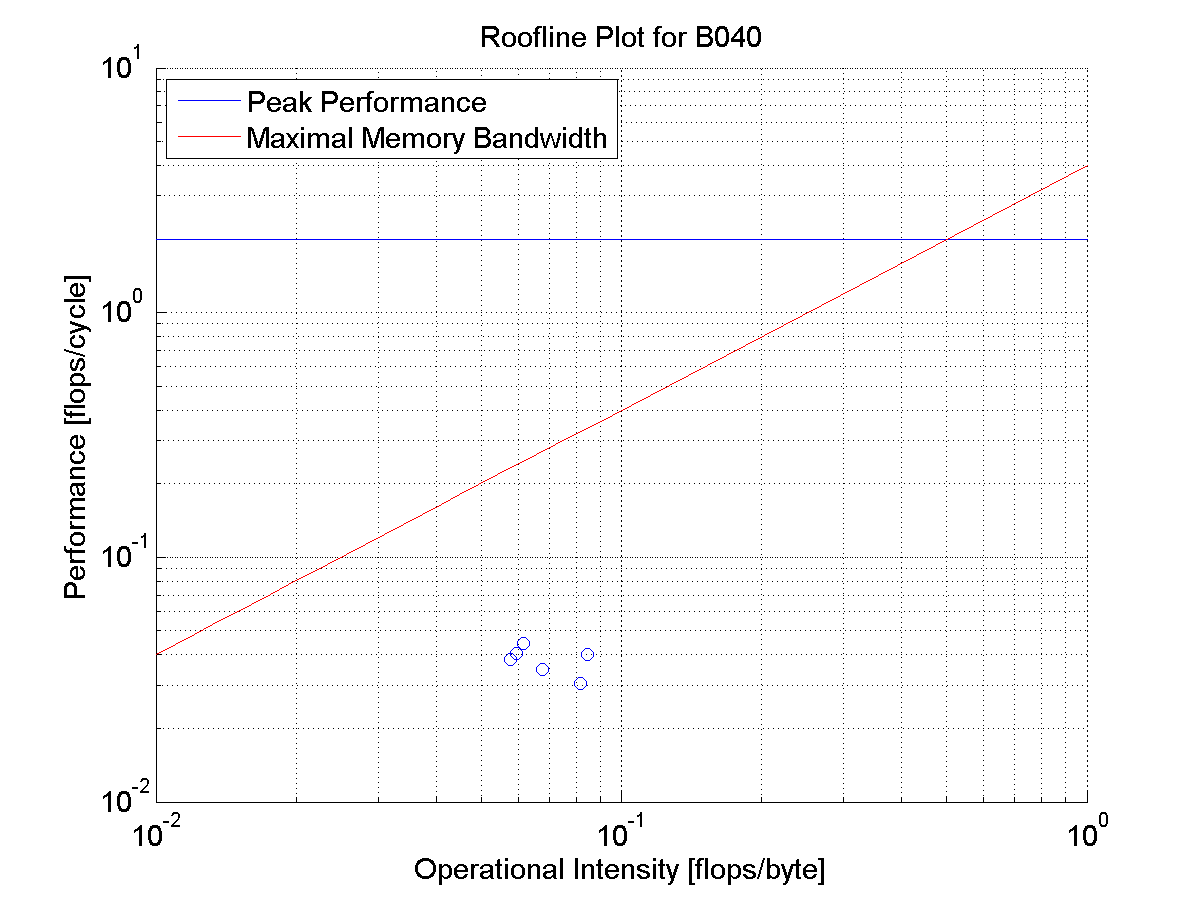
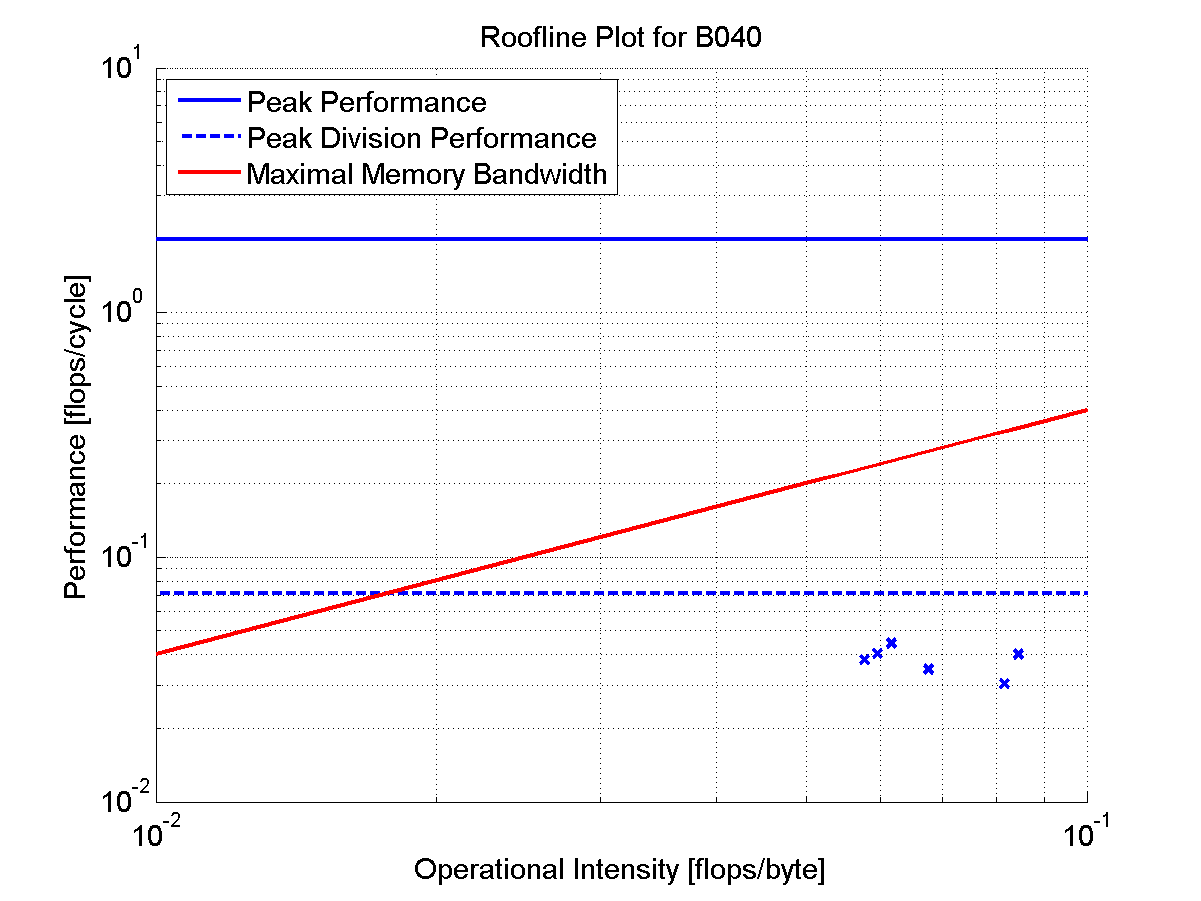
Added divider dependency.

diff --git a/analysis/performance_b040.m b/analysis/performance_b040.m
@@ -37,7 +37,6 @@ intensity = flops_cycle/bandwidth_cycle;
 roofline_points = [roofline_points; intensity, flops_cycle];
 
 data_points_double = [data_points_double; 1638, flops_cycle];
-
 %% Performance Analysis [dataset user 405] 734 movies, user 405, single precision
 num_cycles = 2538003807; % CPU_CLK_UNHALTED.REF_TSC
 num_messages = 54330;
@@ -54,7 +53,6 @@ intensity = flops_cycle/bandwidth_cycle;
 roofline_points = [roofline_points; intensity, flops_cycle];
 
 data_points_single = [data_points_single; 734, flops_cycle];
-
 %% Performance Analysis [dataset user 405] 734 movies, user 405, double precision
 num_cycles = 16308024462; % CPU_CLK_UNHALTED.REF_TSC
 num_messages = 275480;
@@ -71,7 +69,6 @@ intensity = flops_cycle/bandwidth_cycle;
 roofline_points = [roofline_points; intensity, flops_cycle];
 
 data_points_double = [data_points_double; 734, flops_cycle];
-
 %% Performance Analysis [dataset 512] 272 movies, user 1-10, single precision
 num_cycles = 9630014445; % CPU_CLK_UNHALTED.REF_TSC
 num_messages = 105670;
@@ -88,7 +85,6 @@ intensity = flops_cycle/bandwidth_cycle;
 roofline_points = [roofline_points; intensity, flops_cycle];
 
 data_points_single = [data_points_single; 272, flops_cycle];
-
 %% Performance Analysis [dataset 512] 272 movies, user 1-10, double precision
 num_cycles = 93388140082; % CPU_CLK_UNHALTED.REF_TSC
 num_messages = 2083777;
@@ -105,7 +101,6 @@ intensity = flops_cycle/bandwidth_cycle;
 roofline_points = [roofline_points; intensity, flops_cycle];
 
 data_points_double = [data_points_double; 272, flops_cycle];
-
 %% Performance Analysis 32 movies, user 1-100, single precision
 num_cycles = 7810011715; % CPU_CLK_UNHALTED.REF_TSC
 num_messages = 46139;
@@ -122,7 +117,6 @@ intensity = flops_cycle/bandwidth_cycle;
 %roofline_points = [roofline_points; intensity, flops_cycle];
 
 data_points_single = [data_points_single; 32, flops_cycle];
-
 %% Performance Analysis 32 movies, user 1-100, double precision
 num_cycles = 20396030594; % CPU_CLK_UNHALTED.REF_TSC
 num_messages = 872656;
@@ -159,7 +153,7 @@ close all;
 %% Roofline Plot
 figure;
 hold on; grid on
-x = logspace(-2,0);
+x = logspace(-2,-1);
 
 maxBytesCycle = 4;
 % flops / cycle
@@ -168,23 +162,27 @@ oneOpCycle = 1;
 
 % Scalar peak performance
 ys = ones(length(x),1).*peakPerf;
-loglog(x,ys,'-b');
+loglog(x,ys,'-b','LineWidth',2);
+
+% Peak division perf
+ys = ones(length(x),1).*(1/14);
+loglog(x,ys,'--b','LineWidth',2);
 
 % memory bandwidth
 yb = x.*maxBytesCycle;
-loglog(x,yb,'r');
+loglog(x,yb,'r','LineWidth',2);
 
 % measurements
-loglog(roofline_points(:,1), roofline_points(:,2), 'ob');
-%text(roofline_points(1,1), roofline_points(1,2),{' 1038, float'},'VerticalAlignment','middle','HorizontalAlignment','left', 'fontsize', fontsize);
-%text(roofline_points(2,1), roofline_points(2,2),{' 1038, double'},'VerticalAlignment','top', 'HorizontalAlignment','right','fontsize', fontsize);
+loglog(roofline_points(:,1), roofline_points(:,2), 'xb', 'LineWidth',2);
+%text(roofline_points(1,1), roofline_points(1,2),{' big (f)'},'VerticalAlignment','top','HorizontalAlignment','center', 'fontsize', fontsize);
+%text(roofline_points(2,1), roofline_points(2,2),{' big (d)'},'VerticalAlignment','middle', 'HorizontalAlignment','right','fontsize', fontsize);
 %text(roofline_points(3,1), roofline_points(3,2),{' 732, float'},'VerticalAlignment','middle','HorizontalAlignment','left', 'fontsize', fontsize);
 %text(roofline_points(4,1), roofline_points(4,2),{' 732, double'},'VerticalAlignment','bottom','HorizontalAlignment','right', 'fontsize', fontsize);
-%text(roofline_points(5,1), roofline_points(5,2),{' 272, float'},'VerticalAlignment','top','HorizontalAlignment','center', 'fontsize', fontsize);
-%text(roofline_points(6,1), roofline_points(6,2),{' 272, double'},'VerticalAlignment','bottom','HorizontalAlignment','left', 'fontsize', fontsize);
+%text(roofline_points(5,1), roofline_points(5,2),{' medium (f)'},'VerticalAlignment','top','HorizontalAlignment','center', 'fontsize', fontsize);
+%text(roofline_points(6,1), roofline_points(6,2),{' medium (d)'},'VerticalAlignment','bottom','HorizontalAlignment','center', 'fontsize', fontsize);
 
 title('Roofline Plot for B040','fontsize', fontsize);
-legend('Peak Performance','Maximal Memory Bandwidth','Location','northwest');
+legend('Peak Performance', 'Peak Division Performance','Maximal Memory Bandwidth','Location','northwest');
 xlabel('Operational Intensity [flops/byte]', 'fontsize', fontsize)
 ylabel('Performance [flops/cycle]', 'fontsize', fontsize)
 set(gca,'XScale','log')
